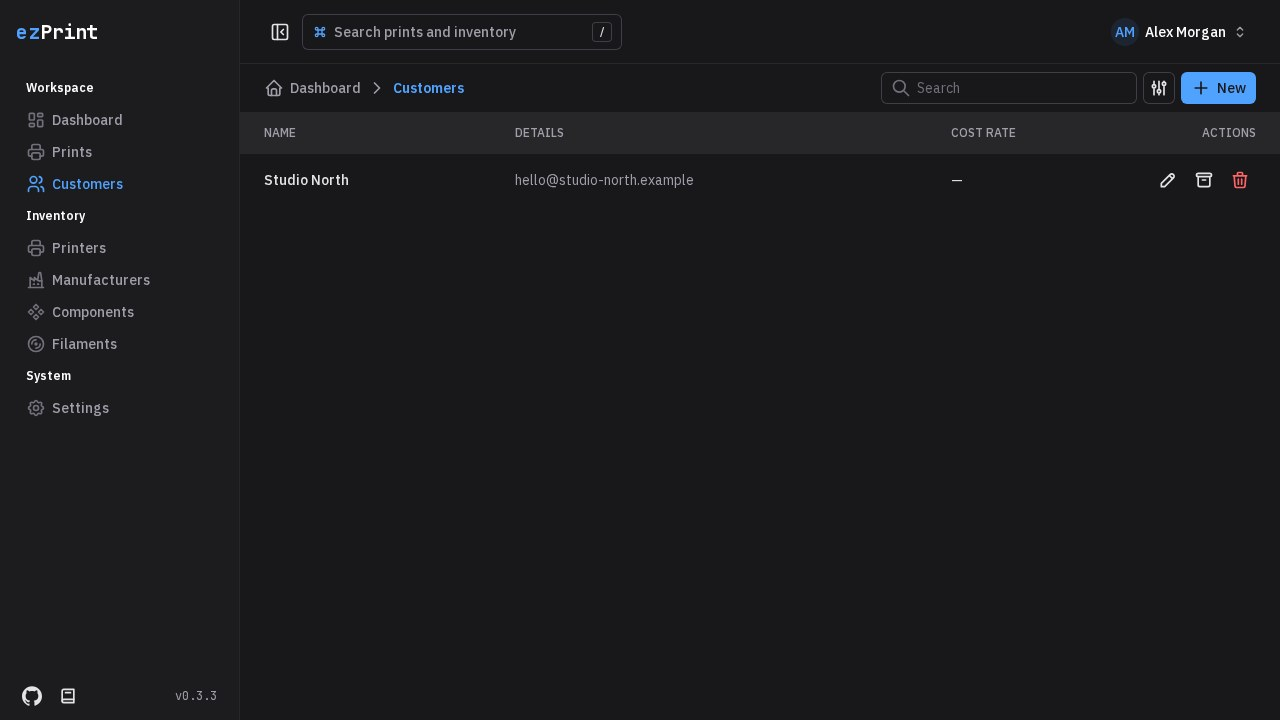
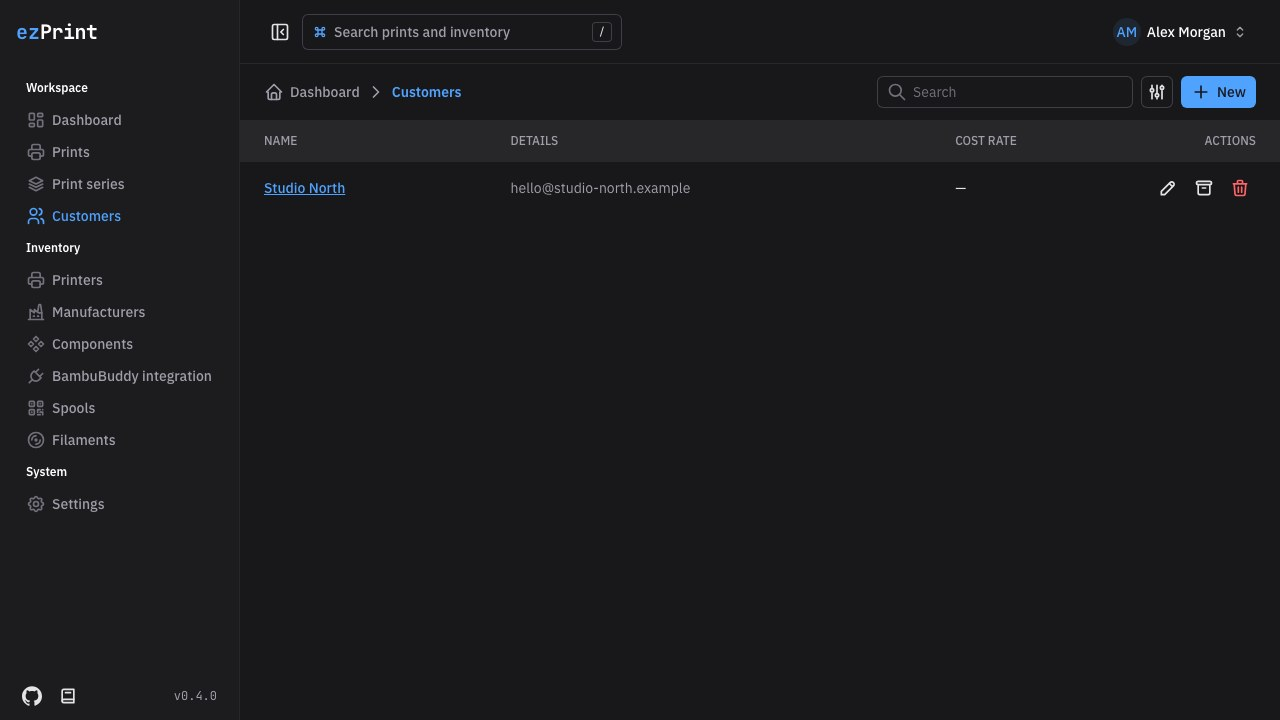
docs: document production workflows
Document stock ownership, outcomes, series, repeat orders,
sales margins, export limits and optional integrations.
Refresh deterministic screenshots and development test guidance.

Refs #39, #40, #41, #42, #43, #44, #45, #46, #47

diff --git a/docs/.vitepress/config.ts b/docs/.vitepress/config.ts
@@ -22,6 +22,10 @@ const sidebar: DefaultTheme.SidebarItem[] = [
       { text: 'Manufacturers', link: '/guide/manufacturers' },
       { text: 'Components', link: '/guide/components' },
       { text: 'Filaments', link: '/guide/filaments' },
+      { text: 'Spoolman and BambuBuddy', link: '/guide/integrations' },
+      { text: 'Exports and cost reports', link: '/guide/exports' },
+      { text: 'Series and repeat orders', link: '/guide/series' },
+      { text: 'Spool inventory', link: '/guide/spools' },
       { text: 'Print workflow', link: '/guide/print-workflow' },
       { text: 'Settings', link: '/guide/settings' },
     ],

diff --git a/docs/reference/api.md b/docs/reference/api.md
@@ -66,3 +66,47 @@ manufacturer, material, and color name. Responses expose the resolved manufactur
 Errors include an HTTP status and stable `data` with `code`, `messageKey`, optional `fieldErrors`, and `requestId`.
 Expect 401 without a session, 403 for a foreign origin, 409 for immutability, references, currency, or setup
 conflicts, and 422 for invalid or incompatible input. API clients should branch on `code`, not parse messages.
+
+Print draft and calculation requests accept `quantity`, a whole number from 1 to 1,000,000, defaulting to 1. Print DTOs, previews, and snapshots expose `quantity` and canonical decimal `costPerUnit`. Material quantities and duration remain run totals.
+
+## Outcomes and retries
+
+`POST /api/prints/:id/outcome` requires authentication and a same-origin request. The body contains `status` (`SUCCESS` or `FAILED`), integer `durationSeconds` (0–2,147,483,647), `filaments: [{ usageId, usedGrams }]` (canonical non-negative decimal strings), optional `note`, and `failureReason` (required for failure). Every planned usage ID must occur exactly once. Only non-archived `DONE` prints accept outcomes. Identical requests are idempotent; changing a recorded outcome returns 409. Read the outcome, recording date, costs, source retry, and retries through `GET /api/prints/:id`.
+
+`POST /api/prints/:id/retry` creates a current-price draft from a non-archived failed print, preserving quantity and customer. It never inherits an outcome. Ordinary duplication does not create a retry relationship. Print lists accept `outcome=PENDING|SUCCESS|FAILED`; pending means a `DONE` print without an outcome. Dashboard outcome metrics use the same completion period and exclude archived prints. Success rate excludes pending outcomes; variance sums actual minus planned only for recorded outcomes.
+
+## Spool inventory
+
+Authenticated `GET /api/spools` supports search, page, pageSize (1–100), includeArchived, filamentId, and availableOnly. The response includes stable IDs/codes, purchase metadata, exact remaining grams and unit cost. `GET /api/spools/:id` also returns a paginated movement history. `POST /api/spools` accepts code, filamentId, purchasePrice, initialNetWeightGrams, and optional purchaseLot, location, acquiredAt (ISO date). Creation adds an opening receipt atomically. `PATCH /api/spools/:id` edits metadata and price while retaining code, filament, and initial weight.
+
+`POST /api/spools/:id/archive` takes `{ archived }`. `POST /api/spools/:id/movements` takes `{ kind: RECEIPT|CORRECTION, grams, note, operationKey }`; operationKey is a UUID reused only for identical retries. Grams use canonical decimals, up to 12 whole and six fractional digits. Corrections are signed nonzero deltas; receipts are positive. `GET /api/filaments/:id/stock` returns the active total and threshold; `PATCH` on the same route accepts `{ minimumStockGrams }`. `GET /api/spools/:id/qr` requires authentication and returns an SVG encoding the local spool route.
+
+Draft filament lines accept `spoolId`. Older clients may omit it only when exactly one active spool can be resolved. Finalized usage DTOs preserve `spoolId` and `spoolCode`; historical usages without a spool remain null.
+
+`POST /api/prints/:id/outcome/correct` accepts the outcome fields plus a required correction note, `expectedRevision`, and a UUID `operationKey`. It appends an immutable revision, updates current result metrics, and books only consumption deltas atomically. Matching retries are idempotent; stale revisions return 409. Print DTOs expose the current revision and history containing the original plus the latest 20 corrections. The full stock ledger remains paginated on the spool detail API.
+
+## Sales values
+
+Drafts and calculation requests accept optional non-negative `salesValue` in the instance currency. It is frozen in the completed snapshot, and old records retain null. Print DTOs expose `financials` with sales value, planned margin, realized revenue/margin, and per-unit values. Missing sales values remain null, pending outcomes have no realized revenue, and only successful outcomes produce realized margin. Failed outcomes produce zero realized revenue when a value was supplied, with failed costs reported separately. Copy/retry flows clear sales value.
+
+## Series, customer history, and exports
+
+- `GET/POST /api/series`: paginated search/create; name, optional customer/target/notes, and `autoComplete`.
+- `GET/PATCH /api/series/:id`: read or update; `POST .../state` accepts `{ status: "OPEN" | "COMPLETED" }`, `POST .../archive` accepts `{ archived }`, and `POST .../next-run` accepts `{ sourcePrintId }`.
+- `GET /api/series/:id/history` and `GET /api/customers/:id/history`: paginated prints plus totals over the same full filtered set.
+- `POST /api/prints/:id/repeat`: current-price draft with separate repeat relationship and cleared sales value.
+- `GET /api/prints/export`: authenticated, no-store CSV; same filters as the print list, restricted to `DONE`, maximum 5,000 records. A larger result returns `EXPORT_TOO_LARGE`; an empty set returns the header.
+- `GET /api/prints/:id/report`: authenticated, no-store persisted report DTO for a done print, including archived records; other statuses return `REPORT_NOT_ALLOWED`. `/reports/prints/:id` renders its localized A4 source view for browser PDF saving.
+
+Print/history/export filters include `dateFrom`, `dateTo` (inclusive ISO dates, completion date or creation when no completion exists), `printerId`, `customerId`, `seriesId`, `status`, `outcome=PENDING|SUCCESS|FAILED`, `search`, and `includeArchived`. A history scope always overrides a conflicting scope query. Draft input accepts nullable `seriesId`; a series customer is inherited and conflicts are rejected. See [exports](../guide/exports) for CSV field and print behavior.
+
+## Optional integrations
+
+All routes require authentication; POST routes require same-origin requests. URL and credentials are server environment configuration only. See [integration setup and limits](../guide/integrations).
+
+- `GET /api/integrations/spoolman`: configuration/capability/version status and the last 50 operations. `?view=preview&page=1` returns the import preview with a SHA-256 fingerprint of the validated remote data.
+- `POST /api/integrations/spoolman`: discriminated `action`: `IMPORT` with `data={remoteId,previewHash,authority?,localSpoolId?}`, `SYNC` with `spoolId`, `UNLINK` with `data={spoolId,ownership:"NATIVE",openingBalance}`, or `OPERATION` with `data={operationId,action:"SEND"|"CONFIRM_APPLIED"|"CONFIRM_NOT_APPLIED"}`. Explicit linking to an existing spool requires the same already-linked filament identity. Reassigning a stable external ID is rejected.
+- `GET /api/integrations/bambubuddy`: safe printer/link status; optional `printId`. `?view=logs&printerId=...&page=1` pages through the selected printer's remote logs.
+- `POST /api/integrations/bambubuddy`: `LINK_PRINTER` (`printerId`, nullable `remoteId`), `SYNC_PRINTER` (`printerId`), `MAP_TRAY` (`printerId`, `slot` as `ams:tray`, nullable `spoolId`), `ATTACH` (`printId`, `remoteLogId`), `SYNC_PRINT` (`printId`), or `IMPORT` (`printId`, `previewHash`, validated `outcome`). Only confirmed terminal records may import an outcome.
+
+Errors use `INTEGRATION_DISABLED`, `INTEGRATION_CONFIG`, `INTEGRATION_UNAVAILABLE`, `INTEGRATION_CONTRACT`, or `INTEGRATION_CONFLICT`; remote HTTP failures are classified without forwarding response bodies or connection details. Native mutations of externally owned stock return `STOCK_OWNED_EXTERNALLY`.

diff --git a/docs/guide/integrations.md b/docs/guide/integrations.md
@@ -1,0 +1,49 @@
+---
+title: Spoolman and BambuBuddy
+description: Configure optional server-only integrations, preview imports, assign stock authority, and reconcile printer results.
+---
+
+# Spoolman and BambuBuddy
+
+Both integrations are optional. Configure them on the ezPrint server and restart it. Credentials never enter browser configuration, exports, or error messages. An administrator must choose a trusted HTTP or HTTPS origin, optionally with a base path. URL user information, query strings, fragments, and redirects are rejected. Private container-network hosts and LAN addresses are supported; these URLs are not accepted from browser input. Permit network access only to the intended services. Do not repoint an existing connection to an unrelated database with reused numeric IDs: unlink and reconcile its records first.
+
+```dotenv
+SPOOLMAN_URL=http://spoolman:7912
+SPOOLMAN_AUTHORIZATION=Bearer YOUR_REVERSE_PROXY_TOKEN
+BAMBUBUDDY_URL=http://bambubuddy:8000
+BAMBUBUDDY_API_KEY=YOUR_READ_ONLY_API_KEY
+```
+
+The Spoolman authorization header is optional for a reverse proxy. Give BambuBuddy's key read access to printers, archives/print logs, and inventory assignments. ezPrint never sends printer-control, queue-scheduling, camera, or file-upload requests. Each request has a three-second timeout and a two-megabyte response bound. Metadata is polled every minute in bounded batches; large inventories may need several cycles. Manual workflows use cached prices during outages. After five minutes without a successful refresh, linked inventory shows a stale warning.
+
+## Spoolman import and ownership
+
+Open **Spools → Spoolman integration → Load import preview**. The preview shows remote IDs, local links, unknown or changed balances, and archived or incomplete records. Confirm import only after reviewing it. Changed remote data requires another preview. Pages contain at most 50 remote spools. Imports create or reuse vendors, filaments, and spools by their immutable external IDs, never by names. Repeating an import keeps local IDs. Remote vendor, price, and positive initial weight are required; fix missing values in Spoolman before importing. Initial weights remain the local spool's pricing basis after import; create a new physical spool if that basis was wrong.
+
+![Spoolman preview with explicit stock authority](/screenshots/spoolman-import.jpg)
+
+**Spoolman owns stock (read-only)** is the default. ezPrint mirrors remaining weight and records print outcomes without stock deductions. Receipts, manual corrections, and local pricing edits are disabled for linked stock. Negative weights remain negative; unknown weights stay unknown. Remote deletions and archival are shown explicitly and prevent new selection without deleting historical references. A temporary outage retains cached data.
+
+![Linked spool with ownership, synchronization, and explicit unlink controls](/screenshots/spoolman-detail.jpg)
+
+**ezPrint submits consumption to Spoolman** is an explicit opt-in for installations where no other service deducts these prints. Outcomes create durable pending operations in their database transaction; the worker sends at most five per cycle. Successful requests become applied. Corrections submit only the difference. Spoolman's additive usage endpoint has no idempotency key, so ezPrint marks the request uncertain before sending and never automatically retries an uncertain request after a timeout or restart. Check Spoolman's usage history, then confirm **already applied** or **not applied; allow retry**. Rejected requests require fixing the remote cause and the same explicit reconciliation. A mode change or unlink is blocked while operations remain unresolved.
+
+Unlinking requires a measured opening balance and explicit native ownership. It appends a reconciliation movement and retains IDs, history, and print references. Existing linked filament/vendor IDs remain reserved, preventing accidental duplicate imports. Current remote numeric quantities reflect the precision supplied by the remote API; ezPrint calculations and native ledger values remain canonical decimal strings.
+
+## BambuBuddy printer and print links
+
+Open **BambuBuddy integration**, choose the local printer and the remote printer ID, and save the link. Printer names may change without breaking identity. The page shows cached live state, AMS slots, and external trays. Shared Spoolman IDs take priority; otherwise select an explicit local spool for the slot. Conflicting mappings and unavailable spools require operator review. Mappings propose context only: select the verified physical spool in the print draft. Slot changes never rewrite completed usage lines. The current picker displays up to 100 local printers/spools; remote printer lists are bounded to 500.
+
+From a print, open **BambuBuddy integration → Choose print log**. Attach the exact run's stable print-log ID. A log can belong to only one local print; repeat orders require a new remote run. The picker pages through 50 records. Refreshing an attached job searches at most the latest 1,000 records for its printer; older missing entries retain their cached data and require manual reconciliation. Archive files can represent repeated runs, so ezPrint deliberately uses individual print-log records.
+
+![BambuBuddy terminal-result preview and explicit outcome confirmation](/screenshots/bambubuddy-preview.jpg)
+
+Only `completed` or `failed` records with a valid completion timestamp provide a proposed outcome. Live `IDLE`, running, paused, disconnected, cancelled, stopped, and skipped states never complete a local print. Complete the local workflow to **Done**, review the preview, and confirm the outcome. Available duration and total grams must match the remote record. If duration is absent, enter it; if multiple filament lines exist, distribute the reported total explicitly. Missing values are never fabricated. Polling refreshes the preview; it does not accept an unreviewed result.
+
+Native spools receive one outcome-linked deduction. For Spoolman-owned spools, a BambuBuddy import creates neither a native deduction nor an outbound Spoolman operation, including corrections. Review ownership before manually recording a result already tracked elsewhere. Imported outcomes are idempotent across retries and restarts. Later changes to an imported remote record do not rewrite its historical snapshot; use the local outcome-correction workflow.
+
+## Troubleshooting and supported contracts
+
+A missing version, offline warning, or incompatible-response error means the service is unreachable, credentials lack permissions, or its API differs. Check server configuration and remote permissions without copying secrets into issue reports. Refresh a preview after resolving conflicts. Remote errors are intentionally summarized; inspect the remote service's logs directly if more detail is needed.
+
+The adapter uses [Spoolman's v1 API](https://github.com/Donkie/Spoolman/wiki), including `info`, paginated `spool`, and `PUT spool/:id/use`. BambuBuddy uses [its HTTP API](https://github.com/maziggy/bambuddy), specifically `printers`, printer `status`, `print-log`, `updates/version`, and optional Spoolman inventory slot assignments. Unsupported payload shapes fail closed; manual ezPrint workflows remain available. Application controls are translated into English and German; repository documentation follows the project's US English convention.

diff --git a/docs/guide/spools.md b/docs/guide/spools.md
@@ -1,0 +1,34 @@
+---
+title: Spool inventory
+description: Physical filament spools, exact stock movements, low-stock warnings, consumption corrections, and QR labels.
+---
+
+# Spool inventory
+
+Filaments describe products; spools identify physical stock. Open **Spools** to search by code, filament, or location and page through active inventory. Each spool has a stable code, purchase lot, location, acquisition date, purchase price, and initial net weight. Referenced spools can be archived, never deleted. Code, filament identity, and initial net weight remain fixed; use a correction for a measured balance change.
+
+![Spool inventory with remaining material and location](/screenshots/spools.jpg)
+
+Creating a filament also creates its initial spool using the entered price and net weight. Add further spools for later purchases or different prices. Upgrades create a clearly marked legacy spool for each existing active filament. Verify its physical weight: the imported opening balance uses the catalog's nominal weight and does not infer historical consumption. Existing completed prints retain their original snapshots and do not acquire guessed spool references.
+
+## Receipts, corrections, and low stock
+
+Every balance is derived from an append-only ledger. **Receipt** adds positive grams; **Correction** records a signed change and a required note. Enter the difference, not the desired final balance: changing 500 g to 450 g requires `-50`. Retrying a saved operation never books it twice. Manual stock values allow up to 12 whole digits and six fractional digits. Use a new spool for a purchase with a different unit price.
+
+![Spool detail with acquisition fields and append-only stock history](/screenshots/spool-detail.jpg)
+
+The filament minimum applies to the combined balance of its active spools. Negative balances remain visible and reduce that total. The dashboard warns below the threshold. Archived spools are excluded from stock totals and cannot receive manual movements.
+
+## Print usage
+
+Each draft filament line selects a spool. A sole active spool is selected automatically; ambiguous choices require selection. Empty, negative, or archived spools cannot enter new calculations. Two spools of the same filament can appear in one run. Unit price is the selected spool's purchase price divided by its initial net weight. The finalized print preserves spool identity and rates.
+
+Recording a result deducts actual grams in the same transaction as the outcome. A failed print can still consume material. Negative balances are retained rather than rejecting factual consumption. **Correct actual usage** records a new outcome revision, requires a note, and books only the usage difference. Previous costs remain available in the original/recent revision history. Stale concurrent corrections are rejected; reload before trying again. Stock movements link back to the print, including after archival.
+
+## QR labels
+
+Use **QR label** and **Print label** for a plain label that opens the authenticated local spool page. The QR contains only the instance URL and stable spool ID, without credentials. Preserve the public request host and forwarded protocol when using a reverse proxy, and print labels from the hostname reachable by the scanning device. A phone cannot reach another computer through `localhost`.
+
+![Printable spool label with an authenticated local detail URL](/screenshots/spool-label.jpg)
+
+Spoolman and printer integrations use explicit external IDs and stock ownership; native stock never assumes that another system has already deducted material. Keep integrations disabled until their ownership mode is configured.

diff --git a/docs/reference/data-model.md b/docs/reference/data-model.md
@@ -27,3 +27,17 @@ filaments; join rows and sessions may cascade with owners.
 Money and quantities use Prisma `Decimal` and canonical JSON strings such as `"1.782175"`. Duration and power are
 integer seconds and watts. The authoritative model is
 [`prisma/schema.prisma`](https://github.com/tobiaswaelde/ezprint/blob/main/prisma/schema.prisma).
+
+Print jobs and snapshots store `quantity` (default 1). New snapshots persist `costPerUnit`. Legacy snapshots retain their monetary fields unchanged; a missing unit cost is read as their original total for quantity 1.
+
+Each optional `PrintOutcome` has a unique print reference, status, duration, reason, note, recording timestamp, and immutable input/cost JSON snapshots. JSON stores decimal values as strings to retain exact precision in SQLite. An outcome is separate from the existing `DRAFT → PRINTING → PRINTED → SHIPPED → DONE` workflow; it can be recorded once the job is Done. `PrintJob.retryOfId` links retry drafts to their failed source without altering its snapshot.
+
+`Spool` belongs to a filament and retains a unique stable code. `StockMovement` is append-only, contains exact decimal-string grams, and has a unique operation key; print consumption references its immutable filament usage. `PrintOutcomeCorrection` retains successive input and cost snapshots with a unique outcome/revision pair and operation key. Current outcome metadata drives filters while prior financial JSON snapshots remain unchanged. `PrintCostSnapshot.calculationJson` retains exact version 3 values; earlier versions keep their original monetary columns.
+
+`PrintJob.salesValue` and `PrintCostSnapshot.salesValue` store nullable canonical decimal strings. Null represents missing revenue input; zero is explicit. Completed sales input never changes after settings or inventory edits. Outcome corrections update realized comparisons without rewriting the frozen sales input.
+
+`PrintSeries` groups optional customer/target/notes, completion policy, and archival. `PrintJob.seriesId` preserves membership and `repeatOfId` distinguishes repeat orders from retry relationships. Progress derives from non-archived successful Done outcomes and is refreshed transactionally after result, correction, workflow, and archive changes.
+
+Spoolman links retain unique nullable external IDs on manufacturers, filaments, and spools. A spool stores one `stockAuthority`, nullable remote balance, remote state, last successful sync, and safe error code. Native balances remain append-only ledger sums; linked balances remain remote mirrors. `SpoolSyncOperation` uniquely identifies each outcome usage/correction and records pending, applied, failed, or uncertain dispatch state. No remote call occurs inside the outcome transaction.
+
+Printers retain a unique nullable BambuBuddy ID and sanitized cached status. `BambuTrayMapping` has one explicit spool per printer/slot. `BambuPrintLink` uniquely binds one remote print-log ID to one local print and stores validated cached data plus confirmed import metadata. Imported outcome metadata is persisted in the same transaction as its outcome and native stock deduction. Completed calculations do not depend on either remote service.

diff --git a/docs/guide/series.md b/docs/guide/series.md
@@ -1,0 +1,24 @@
+---
+title: Series and repeat orders
+description: Group production runs, track successful quantities, and repeat customer orders at current prices.
+---
+
+# Series and repeat orders
+
+A series groups print runs under a name, optional customer, target quantity, and notes. Create it from **Series**, then select it in a new draft or create a print directly from the series. A series customer is inherited; conflicting customer assignments are rejected. Prints can also remain independent.
+
+![Series list with target progress](/screenshots/series.jpg)
+
+Only non-archived **Done** runs with a successful outcome contribute to produced quantity. Failed runs contribute waste costs, pending results remain separate, and drafts and in-progress runs do not count as finished production. A target can automatically complete the series. Manual completion or reopening disables automatic completion until you enable it again in the editor. Archiving preserves the series and its historical runs.
+
+![Series detail with run history and production totals](/screenshots/series-detail.jpg)
+
+The history supports dates, printer, workflow status, outcome, and archived state. Pagination limits displayed rows; totals cover the entire matching set. **Next run** copies a member into a draft using current inventory prices. Existing snapshots remain immutable. Duplicates, retries, and repeat orders clear the previous sales value so that it must be confirmed for the new run.
+
+## Customer history
+
+Open a customer name to view contact details, filtered print history, and matching cost and revenue totals. Revenue includes only successful, explicitly priced completed prints. Failed print costs are reported separately. Dates refer to completion for completed runs and creation for runs without a completion date; the last-activity value follows the matching records' last update.
+
+![Customer detail with history, filters, and aggregates](/screenshots/customer-history.jpg)
+
+**Repeat order** creates a draft from a completed non-archived print and records a bidirectional repeat relationship. **Retry** is reserved for failed outcomes and records a different relationship. Both preserve the requested quantity and use current inventory pricing; unavailable references must be replaced or reactivated. Archived series are not inherited. Links in the print editor distinguish the original order, repeats, and retries.

diff --git a/docs/guide/print-workflow.md b/docs/guide/print-workflow.md
@@ -76,3 +76,17 @@ snapshot. A finalized print cannot return to Draft, but it can move between the 
 **Duplicate** is available in every workflow status. It creates a new draft with a `(copy)` suffix,
 retains the referenced resources and quantities, and recalculates with the current active inventory, formula, and
 settings. Review the new total before advancing it; duplication is the supported way to reuse a finalized record.
+
+Enter the number of identical parts in **Quantity** (1–1,000,000). Enter duration and material for the entire run. The preview and print list distinguish total cost from cost per unit. Duplicates retain the quantity; finalized prints freeze both values.
+
+## Record a result and retry a failed print
+
+After marking a print **Done**, review the **Print outcome** form. Confirm actual duration in seconds and actual grams for every filament; the initial values are planned usage for you to verify. Select **Successful** or **Failed**, supplying a failure reason when needed. Recording freezes the result and displays actual costs beside planned cost and variance. Completed prints without a result remain **Pending outcome** and do not count toward success rate.
+
+Use **Retry print** after a failure to create an editable draft at current inventory prices, with the same quantity and customer. Links connect source and retry in both directions. Ordinary **Duplicate** remains separate. Inactive required inventory must be replaced/reactivated before duplication can succeed. Outcomes and planned calculations are not inherited.
+
+## Sales value and margins
+
+Optionally enter the total **Sales value** for the run in the instance currency. Blank means unknown, and zero is an explicit zero sale. The preview shows planned margin and per-unit values. Leaving Draft freezes the entered value. A successful result shows realized revenue and actual margin; failed runs contribute zero realized revenue and their consumption remains a separate waste cost. Negative margins are supported. Duplication, retry, and repeat orders always clear sales value to prevent double counting.
+
+This is a cost and revenue comparison, not an invoice, tax, receivables, or payment ledger. ezPrint does not split net and gross taxes or infer revenue from its paid flag.

diff --git a/docs/reference/calculation.md b/docs/reference/calculation.md
@@ -1,11 +1,11 @@
 ---
 title: Calculation rules
-description: Formula version 1, units, input boundaries, decimal precision, and a reproducible example.
+description: Formula version 3, units, input boundaries, decimal precision, and a reproducible example.
 ---
 
 # Calculation rules
 
-Formula version `1` uses `decimal.js` without intermediate rounding. API results are canonical decimal strings;
+Formula version `3` uses `decimal.js` without intermediate rounding. API results are canonical decimal strings;
 only the UI formats currency for display. Let `t = seconds / 3600`, and convert watts to kilowatts by dividing by
 1,000.
 
@@ -37,3 +37,13 @@ Total                         = 1.782175
 
 A changed formula receives a new `calculationVersion`. Existing completed snapshots retain their version and
 values; duplicates use the current formula and current prices.
+
+## Quantity and unit costs
+
+Quantity is a whole number from 1 to 1,000,000 (default 1). Duration, material, categories, and total cost describe the entire run. `costPerUnit = totalCost / quantity` uses the same decimal precision (20 significant digits for repeating division), with currency rounding only for display. Version 2 snapshots freeze quantity and unit cost. Version 1 snapshots retain their original totals and use quantity 1 with unit cost equal to their stored total. Duplication preserves quantity and recalculates at current prices.
+
+## Actual costs
+
+An outcome uses `actual-1` and only the rates stored when the print left Draft. Actual duration drives printer, build-plate, other-component, and electricity costs. Multiple hotends share actual duration in proportion to their planned durations. Each planned filament usage requires an actual weight, including zero. Zero-duration failures are allowed. Actual totals and unit costs are stored as canonical decimal strings in a separate immutable snapshot. Planned costs never change.
+
+Version 3 uses selected physical spool prices and preserves the complete calculation as decimal strings in JSON, avoiding SQLite numeric-affinity rounding of repeating rates. Earlier snapshots retain their original stored values. Actual-cost snapshots use the frozen rates of their source version.

diff --git a/docs/guide/exports.md b/docs/guide/exports.md
@@ -1,0 +1,18 @@
+---
+title: Exports and cost reports
+description: Export filtered completed prints as invariant CSV and save localized A4 cost reports as PDF.
+---
+
+# Exports and cost reports
+
+Use **Export completed CSV** above the print list. The export applies the same search, dates, customer, printer, series, outcome, and archive filters, then restricts the results to **Done**. Selecting an incompatible workflow status produces a header-only file. Exports are limited to 5,000 rows: narrow the date range for larger collections. The server reads batches of 100 inside one database transaction and sends one bounded download.
+
+CSV uses UTF-8, a comma delimiter, CRLF records, stable English identifiers, ISO dates, integer seconds, and canonical decimal strings. Text cells that could start spreadsheet formulas receive a leading apostrophe. Missing outcomes and sales remain blank; zero is a known value. Spool codes are joined with semicolons inside a quoted cell. Costs use stored snapshots, so changing current inventory prices does not recalculate an exported print.
+
+## PDF cost reports
+
+Open a done print, choose **Cost report**, then **Print / Save as PDF**. Select your browser's PDF destination, A4 paper, and disable browser headers and footers. The document title supplies a sanitized print name and completion date for the suggested filename; the browser ultimately controls the filename. No generated file is stored on the server.
+
+![A4 cost report with stored prices, planned totals, and optional actual values](/screenshots/cost-report.jpg)
+
+The report follows the active German or English application locale and instance currency. It includes stored printer and component rates, filament quantities and spool codes, planned and actual totals, outcome details, and optional sales and margin. Currency display is rounded for readability; CSV retains exact decimals. This is a cost report, not an invoice, offer, receipt, or tax document. Archived done prints remain reportable from their detail page. Both export endpoints require authentication. Downloaded files may contain customer names, notes, and commercially sensitive prices; share them deliberately.

diff --git a/docs/guide/dashboard.md b/docs/guide/dashboard.md
@@ -36,3 +36,7 @@ duration, and current total. Select a name to view or continue editing it. **New
 dialog available on the Prints page.
 
 ![Unfinished-print table with a current draft and the New print action](/screenshots/dashboard-unfinished.jpg)
+
+Outcome metrics show success rate, failed-print costs, actual-minus-planned variance, and pending completed prints. Only recorded outcomes enter the success-rate denominator. Costs include failed runs' real consumption; pending outcomes do not imply success or zero actual cost. All metrics use the selected completion period and exclude archived prints.
+
+Realized revenue and margin include only successful, non-archived prints with explicit sales values, using the same completion period as the other metrics. Pending, failed, and unpriced records do not inflate these totals. Failed consumption remains visible separately as waste cost. Negative realized margin means the recorded successful sales value was below actual cost.

diff --git a/docs/development/contributing.md b/docs/development/contributing.md
@@ -56,3 +56,5 @@ UI from that commit.
 
 `pnpm docs:check` validates frontmatter, navigation, alt text, unresolved placeholders, and the absence of legacy
 localized Markdown. `pnpm docs:build` validates page rendering, links, and anchors.
+
+To keep the live development server on port 3000 while running browser checks, use `PRINT_COST_E2E_PORT=3002 pnpm test:e2e`. Browser suites isolate SQLite databases and Nuxt build directories under temporary roots. Playwright artifacts are separated into `test-results/e2e`, `test-results/screenshots`, and `test-results/docs`. `PRINT_COST_BUILD_DIR` selects a separate Nuxt build directory when needed.
